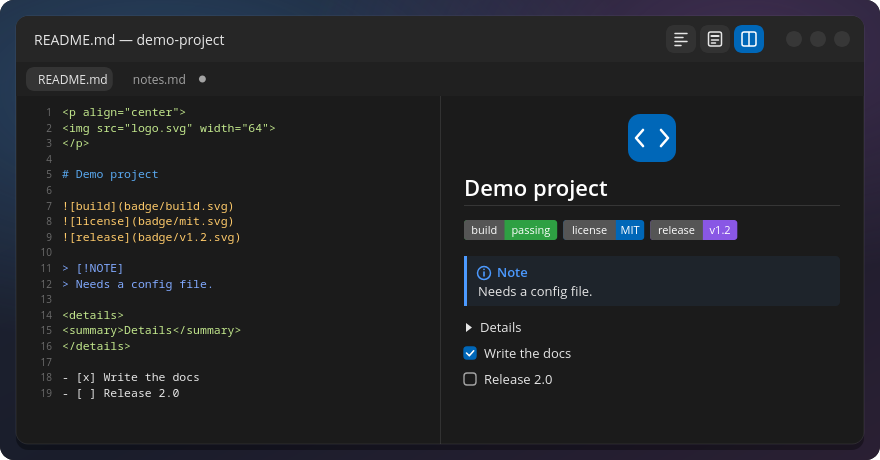
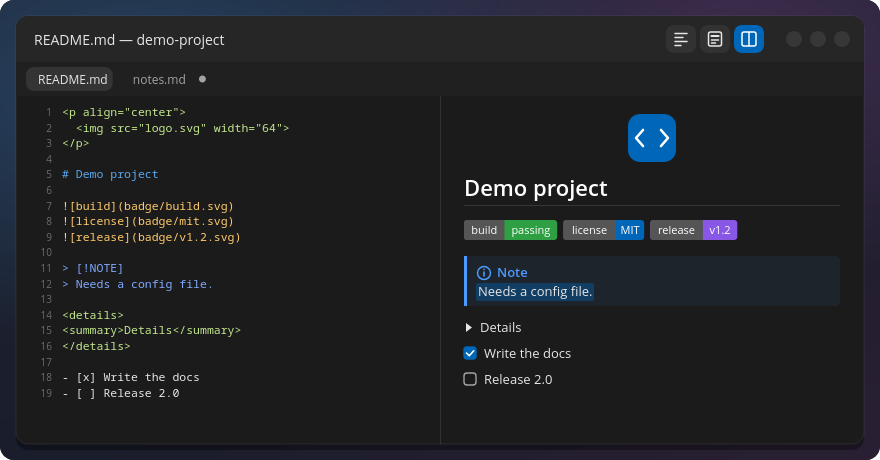
Mockups: "/" menu, Markdown shortcuts and workspace pins
Three new mockups built by gen.py: the "/" command menu with its
shortcut hints, a Markdown note with a nested list, tasks, a link and an
aligned table next to the Markdown shortcuts, and the taskbar menu with
"Always open on “Work”" and the pin on a pinned app. Shortcuts are
written as the app shows them ("Ctrl + Shift + 1"). PNG copies as for
the other mockups.

Monospace text now keeps leading and repeated spaces (white-space:pre),
which fixes the lost indentation of the <img> line in the Split view
mockup. The other mockups only gain the attribute.

Changed region(s): [[0.5216, 0.6087, 0.675, 0.6696], [0.0614, 0.2739, 0.3068, 0.3043]]

diff --git a/docs/media/src/gen.py b/docs/media/src/gen.py
@@ -362,7 +362,8 @@ def showd():
 # 8-10 Text Editor (markdown-preview patches) ------------------------------------
 MONO = "'Noto Sans Mono', 'DejaVu Sans Mono', monospace"
 WARN = "#f0a030"; ADD = "#3fb950"; DEL = "#e5484d"
-def mono(x, y, s, size=11.5, fill=TXT, **kw): return t(x, y, s, size, fill, extra=f' style="font-family:{MONO}"', **kw)
+# white-space:pre keeps leading and repeated spaces (indentation, aligned tables)
+def mono(x, y, s, size=11.5, fill=TXT, **kw): return t(x, y, s, size, fill, extra=f' style="font-family:{MONO};white-space:pre"', **kw)
 
 def view_icon(kind, x, y, col):
     # 16x16 glyph at (x,y): Source = text lines, Preview = rendered page, Split = two columns
@@ -565,6 +566,152 @@ def views():
         cy += rh
     return svg(W, H, b, (), wall=True, title="COSMIC Text Editor with two views side by side, each with its own tabs, and the tab menu to move, clone or compare a tab")
 
+def popup_rows(x, y, w, rows, rh=32):
+    """Menu rows in a popup. rows = (label, hint, state); state "", "acc" (picked with keys), "hover" or "sep"."""
+    out = ""; cy = y + 6
+    for lab, hint, st in rows:
+        if st == "sep":
+            out += f'<rect x="{x+12}" y="{cy+6}" width="{w-24}" height="1" fill="#ffffff" fill-opacity=".1"/>'; cy += 13; continue
+        if st == "acc": out += f'<rect x="{x+6}" y="{cy}" width="{w-12}" height="{rh}" rx="8" fill="{ACC}"/>'
+        if st == "hover": out += f'<rect x="{x+6}" y="{cy}" width="{w-12}" height="{rh}" rx="8" fill="#ffffff" fill-opacity=".09"/>'
+        out += t(x + 18, cy + rh/2 + 5, lab, 13, "#ffffff" if st == "acc" else TXT, 500 if st == "acc" else 400)
+        if hint == "sub":
+            out += f'<path d="M{x+w-22} {cy+rh/2-5}l5 5-5 5" fill="none" stroke="{TXT}" stroke-width="1.8" stroke-linecap="round" stroke-linejoin="round"/>'
+        elif hint:
+            out += mono(x + w - 18, cy + rh/2 + 4, hint, 11, "#ffffff" if st == "acc" else MUTED, anchor="end", op=.85 if st == "acc" else None)
+        cy += rh
+    return out, cy + 6 - y
+
+def slash():
+    W, H = 880, 560
+    b, x0, py, ww, ph = editor(W, H, "notes.md — demo-project", [("notes.md", 1, 1), ("todo.md", 0, 0)], "source")
+    lines = ["# Weekly notes", "", "## Done", "- Fixed the login page", "- Wrote the release notes", "",
+             "## Next", "/"]
+    ly0 = py + 26; lh = 19; tx = x0 + 46; cw = 6.95
+    cur = len(lines) - 1
+    b += f'<rect x="{x0}" y="{ly0 + cur*lh - 14}" width="{ww}" height="{lh}" fill="#ffffff" fill-opacity=".04"/>'
+    for i, line in enumerate(lines):
+        ly = ly0 + i * lh
+        b += t(x0 + 34, ly, str(i + 1), 10, MUTED, anchor="end", op=.6)
+        if line: b += mono(tx, ly, line, 11.5, ACC_TXT if line.startswith("#") else TXT)
+    cy = ly0 + cur * lh
+    b += f'<rect x="{tx + cw + 1}" y="{cy-12}" width="1.6" height="15" fill="{TXT}"/>'  # text cursor
+    # hints in libcosmic's shortcut style, as the app shows them
+    rows = [("Heading 1", "Ctrl + Shift + 1", "acc"), ("Heading 2", "Ctrl + Shift + 2", ""), ("Heading 3", "Ctrl + Shift + 3", ""),
+            ("Bulleted list", "-", ""), ("Numbered list", "1.", ""), ("Task list", "Ctrl + Enter", "hover"),
+            ("Quote", ">", ""), ("Code block", "```", "")]
+    mx, my, mw = tx - 12, cy + 10, 290
+    _, mh = popup_rows(0, 0, mw, rows)
+    b += shadow_rect(mx, my, mw, mh, 12, "#262626")
+    g, _ = popup_rows(mx, my, mw, rows); b += g
+    # scrollbar: more items below
+    b += f'<rect x="{mx+mw-4}" y="{my+10}" width="2.5" height="{mh*0.45}" rx="1.25" fill="#ffffff" fill-opacity=".25"/>'
+    # pointer over the hovered row
+    px, py2 = mx + 190, my + 6 + 5 * 32 + 18
+    b += f'<path d="M{px} {py2}l0 17 4.5-4.2 3 6.6 2.6-1.2-3-6.4 6-.4z" fill="#fff" stroke="#111" stroke-width="1.2" stroke-linejoin="round"/>'
+    rx = x0 + 450; ry = py + 250
+    b += t(rx, ry, "Type / at the start of a line", 15, "#ffffff", 600)
+    for i, s in enumerate(["Type to filter: /h2, /todo, /table", "Up and Down choose, Enter or Tab inserts",
+                           "Esc closes the menu and keeps the text", "The hint shows the shortcut or the Markdown",
+                           "Stays closed in code blocks and front matter"]):
+        b += t(rx, ry + 28 + i * 22, s, 13, MUTED)
+    return svg(W, H, b, (), wall=True, title="COSMIC Text Editor: typing / in a Markdown file opens a menu of Markdown blocks, each with its shortcut or syntax as a hint")
+
+def keycap(x, y, label):
+    w = 12 + len(label) * 6.6
+    return (f'<rect x="{x}" y="{y+1.5}" width="{w}" height="20" rx="5" fill="#0d0d0d"/>'
+            f'<rect x="{x}" y="{y}" width="{w}" height="19.5" rx="5" fill="#33363b" stroke="#ffffff" stroke-opacity=".16"/>'
+            + mono(x + w/2, y + 14, label, 11, "#ffffff", anchor="middle")), w
+
+def mdedit():
+    W, H = 880, 580
+    b, x0, py, ww, ph = editor(W, H, "trip.md — demo-project", [("trip.md", 1, 1), ("notes.md", 0, 0)], "source")
+    H1 = ACC_TXT; LNK = "#82aaff"; G = "#c3e88d"
+    # (text, colour) or a list of (text, colour) runs
+    lines = [[("# Weekend trip", H1)], [], [("## Packing", H1)],
+             [("- Clothes", TXT)], [("  - Rain jacket", TXT)], [("  - ", TXT), ("**Hiking boots**", "#ffcb6b")],
+             [("- [x] Book the train", TXT)], [("- [ ] Print the tickets", TXT)], [],
+             [("Route: ", TXT), ("[trail map]", LNK), ("(https://example.com/map)", MUTED)], [],
+             [("| Day | Place    | Distance |", G)], [("| --- | -------- | -------: |", MUTED)],
+             [("| Sat | Lakeside |    12 km |", G)], [("| Sun | Old town |     8 km |", G)]]
+    ly0 = py + 26; lh = 19; tx = x0 + 46; cw = 6.95
+    for i, runs in enumerate(lines):
+        ly = ly0 + i * lh
+        b += t(x0 + 34, ly, str(i + 1), 10, MUTED, anchor="end", op=.6)
+        x = tx
+        for s, col in runs:
+            b += mono(x, ly, s, 11.5, col); x += len(s) * cw
+    # selection on "Hiking boots" just made bold with Ctrl+B
+    sy = ly0 + 5 * lh
+    b += f'<rect x="{tx + 6*cw - 1}" y="{sy-13}" width="{12*cw + 2}" height="17" rx="2" fill="{ACC}" fill-opacity=".4"/>'
+    # cheat sheet popover
+    cx, cy0, cwd = x0 + 440, py + 16, ww - 456
+    groups = [("Text", [("Ctrl + B", "bold"), ("Ctrl + I", "italic"), ("Ctrl + Shift + X", "strikethrough"), ("Ctrl + `", "inline code"), ("Ctrl + K", "link (or paste a URL)")]),
+              ("Headings", [("Ctrl + Shift + 1…6", "heading level"), ("Ctrl + Shift + 0", "plain text")]),
+              ("Lists", [("Enter", "next item"), ("Tab", "nest, Shift + Tab un-nest"), ("Ctrl + Enter", "tick a task")]),
+              ("Tables", [("Tab", "next cell, columns aligned"), ("Enter", "new row")])]
+    rows = sum(len(g[1]) for g in groups)
+    chh = 46 + len(groups) * 24 + rows * 23 + 34
+    b += shadow_rect(cx, cy0, cwd, chh, 12, "#262626")
+    b += t(cx + 18, cy0 + 28, "Markdown shortcuts", 14, "#ffffff", 600)
+    b += t(cx + cwd - 18, cy0 + 28, "also in the Edit menu", 11, MUTED, anchor="end")
+    y = cy0 + 46
+    for name, keys in groups:
+        y += 16; b += t(cx + 18, y, name.upper(), 10.5, ACC_TXT, 600, extra=' letter-spacing="1"'); y += 8
+        for k, what in keys:
+            g, w = keycap(cx + 18, y, k); b += g
+            b += t(cx + 162, y + 14, what, 12.5, TXT)
+            y += 23
+    b += t(cx + 18, y + 22, "Edit > Format table aligns a table by hand", 11.5, MUTED)
+    return svg(W, H, b, (), wall=True, title="COSMIC Text Editor: a Markdown note with a nested list, tasks, a link and an aligned table, next to the Markdown shortcuts")
+
+def pin_glyph(x, y, col, s=12):
+    # pushpin, s x s box at (x, y), tilted like the symbolic icon
+    k = s / 12
+    return (f'<g transform="translate({x} {y}) scale({k}) rotate(40 6 6)" fill="{col}">'
+            f'<path d="M3.6 .8h4.8v1.4l-.9.6v3l2 1.6v1.1H2.5V7.4l2-1.6v-3l-.9-.6z"/>'
+            f'<rect x="5.4" y="8.4" width="1.2" height="3.4" rx=".6"/></g>')
+
+def wspin():
+    W, H = 880, 380
+    b = ""
+    py = 306
+    b += panel(16, py, W - 32, 56)
+    y = py + 8; x = 28
+    spec = [("browser", "Release notes", "4 tabs", 168, 0, 0, 0),
+            ("chat", "(3) Team chat", "3 unread", 166, 0, 1, 0),
+            ("term", "build.sh", "~/projects/demo", 172, 1, 0, 0),
+            ("mail", "Inbox", "5 unread", 140, 0, 0, 1)]
+    pos = {}
+    for ic, ti, su, w, f, pinned, hv in spec:
+        b += item(x, y, w, ic, ti, su, focused=bool(f), hover=bool(hv))
+        if pinned:
+            b += f'<circle cx="{x+33}" cy="{y+10}" r="7.5" fill="{PANEL}"/>' + pin_glyph(x + 27, y + 4, TXT)
+        pos[ic] = (x, w); x += w + 6
+    # menu above the hovered Inbox item
+    rows = [("New window", "", ""), ("", "", "sep"), ("Minimize", "", ""), ("Maximize", "", ""),
+            ("Move to workspace", "sub", ""), ("Always open on “Work”", "", "hover"), ("", "", "sep"),
+            ("Close window", "", "")]
+    mw = 270
+    _, mh = popup_rows(0, 0, mw, rows, 34)
+    mx_, mw_ = pos["mail"]; mx = mx_ + mw_ / 2 - 60; my = py - mh - 12
+    b += shadow_rect(mx, my, mw, mh, 12, "#262626")
+    g, _ = popup_rows(mx, my, mw, rows, 34); b += g
+    b += t(mx + mw - 18, my + 6 + 34 * 5 + 13 * 2 + 22, "middle-click", 12, MUTED, anchor="end")
+    # pointer on the hovered row
+    hy = my + 6 + 34 + 13 + 34 * 3 + 20
+    b += f'<path d="M{mx+200} {hy}l0 17 4.5-4.2 3 6.6 2.6-1.2-3-6.4 6-.4z" fill="#fff" stroke="#111" stroke-width="1.2" stroke-linejoin="round"/>'
+    b += t(36, 40, "Pin an app to a workspace", 15, "#ffffff", 600)
+    for i, s in enumerate(["Right-click a window, choose “Always open on …”.", "Its new windows open on that workspace,",
+                           "and starting it from anywhere takes you there.", "With Workspace Keeper installed."]):
+        b += t(36, 66 + i * 20, s, 12.5, MUTED)
+    # callout to the pin badge
+    bx, _ = pos["chat"]; ax, ay = bx + 33, y + 3
+    b += t(ax, 205, "pinned app", 12, MUTED, anchor="middle")
+    b += f'<path d="M{ax} 213V{ay-4}" stroke="#8a8a8a" stroke-width="1"/><circle cx="{ax}" cy="{ay-4}" r="2.4" fill="#8a8a8a"/>'
+    return svg(W, H, b, ALL, wall=True, title="Taskbar right-click menu with Always open on Work, and a pin on the icon of an app pinned to a workspace")
+
 write("hero.svg", hero()); write("social.svg", social()); write("taskbar.svg", taskbar()); write("taskbar-preview.svg", preview())
 write("taskbar-menu.svg", menus()); write("tray-colors.svg", traycol()); write("ws-keeper.svg", wsk()); write("show-desktop.svg", showd())
 write("text-editor.svg", texteditor()); write("text-editor-changes.svg", changes()); write("text-editor-compare.svg", compare()); write("text-editor-views.svg", views())
+write("text-editor-slash.svg", slash()); write("text-editor-markdown.svg", mdedit()); write("taskbar-pin.svg", wspin())
